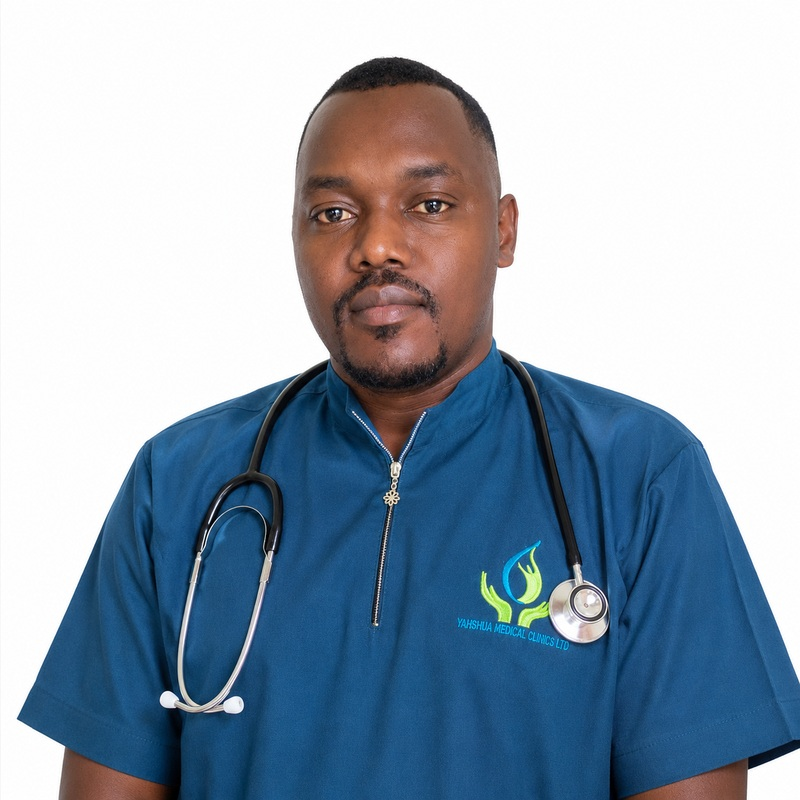
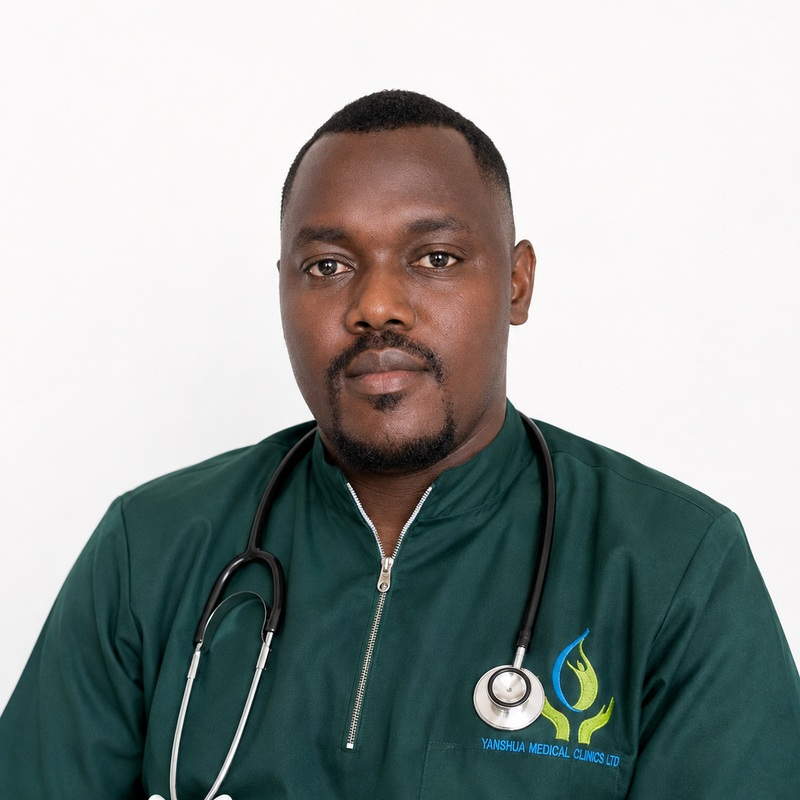
final assets uploads

diff --git a/assets/css/style.css b/assets/css/style.css
@@ -164,8 +164,8 @@ main,header,footer{position:relative;z-index:1}
 /* doctors */
 .doc-card{background:#fff;border:1px solid var(--line);border-radius:var(--radius);overflow:hidden;box-shadow:var(--shadow);transition:.28s;text-align:center}
 .doc-card:hover{transform:translateY(-6px);box-shadow:var(--shadow-lg)}
-.doc-photo{height:240px;background:linear-gradient(150deg,var(--blue-light),var(--green-light));display:grid;place-items:center;position:relative;border-bottom:1px solid var(--line)}
-.doc-photo img{width:100%;height:100%;object-fit:cover;position:absolute;inset:0}
+.doc-photo{height:280px;background:linear-gradient(150deg,var(--blue-light),var(--green-light));display:grid;place-items:center;position:relative;border-bottom:1px solid var(--line)}
+.doc-photo img{width:100%;height:100%;object-fit:cover;object-position:center top;position:absolute;inset:0}
 .doc-ph{color:var(--blue);font-size:.8rem;font-weight:700;letter-spacing:.6px;text-align:center;padding:0 14px;display:flex;flex-direction:column;align-items:center;gap:12px}
 .doc-ph .monogram{
   width:92px;height:92px;border-radius:50%;display:grid;place-items:center;
@@ -210,7 +210,7 @@ main,header,footer{position:relative;z-index:1}
 .upload-box .big{font-size:2.2rem;display:block;margin-bottom:8px}
 
 /* insurers */
-.ins-grid{display:grid;grid-template-columns:repeat(6,1fr);gap:18px}
+.ins-grid{display:grid;grid-template-columns:repeat(5,1fr);gap:18px}
 .ins{background:#fff;border:1px solid var(--line);border-radius:var(--radius-sm);height:108px;display:grid;place-items:center;padding:16px;box-shadow:0 4px 14px rgba(0,0,0,.04);transition:.25s}
 .ins:hover{transform:translateY(-5px);box-shadow:var(--shadow);border-color:#CFE6F7}
 .ins img{max-height:64px;width:auto;object-fit:contain}
@@ -292,7 +292,7 @@ footer a:hover{color:var(--green)}
 /* ---------- Responsive ---------- */
 @media(max-width:1024px){
   .g4,.stats .grid,.quickbar .grid{grid-template-columns:repeat(2,1fr)}
-  .ins-grid{grid-template-columns:repeat(4,1fr)}
+  .ins-grid{grid-template-columns:repeat(3,1fr)}
   .g3,.gal{grid-template-columns:repeat(2,1fr)}
   .hero-logo{display:none}
 }

diff --git a/tools/build.py b/tools/build.py
@@ -35,7 +35,7 @@ def head(title, desc, depth_css="assets"):
 <meta name="viewport" content="width=device-width, initial-scale=1">
 <title>{title}</title>
 <meta name="description" content="{desc}">
-<meta name="keywords" content="Yahshua Medical Clinics, clinic Nyagatare, hospital Rwanda, 24/7 clinic, dental OPG, X-ray Nyagatare, RSSB clinic, NCDs, Physiotherapy">
+<meta name="keywords" content="Yahshua Medical Clinics, clinic Nyagatare, hospital Rwanda, 24/7 clinic, dental OPG, X-ray Nyagatare, RSSB clinic, NCDs, Physiotherapy, Hospitalization Nyagatare">
 <meta name="author" content="Yahshua Medical Clinics Ltd">
 <meta property="og:title" content="{title}">
 <meta property="og:description" content="{desc}">
@@ -134,7 +134,7 @@ def footer():
           <li><a href="services.html">Gynecology &amp; Obstetrics OPD</a></li>
           <li><a href="services.html">Non-Communicable Diseases (NCDs)</a></li>
           <li><a href="services.html">Medical Imaging &amp; X-Ray</a></li>
-          <li><a href="services.html">Hospitalization</a></li>
+          <li><a href="services.html">Hospitalization (30+ Rooms)</a></li>
           <li><a href="services.html">Dental &amp; OPG Panoramic X-Ray</a></li>
           <li><a href="services.html">Physiotherapy</a></li>
         </ul>
@@ -191,13 +191,13 @@ def page_hero(title, sub, bg, crumb):
 # 8. Gynecology & Obstetrics OPD
 # 9. Non-Communicable Diseases (NCDs)
 # 10. Medical Imaging & X-Ray
-# 11. Hospitalization
+# 11. Hospitalization (30+ rooms: V-VIP, VIP, Single, Ward)
 # 12. Dental Services & OPG X-Ray
 # 13. Physiotherapy
 
 SERVICES = [
     ("&#129658;", "General Medicine",
-     "Complete adult consultation, diagnosis and treatment by our qualified General Practitioners, covering both acute illnesses and chronic health needs.",
+     "Complete adult consultation, diagnosis and treatment by our qualified General Practitioners, covering acute illnesses, routine check-ups and medical certificates.",
      ["Adult outpatient consultations", "Clinical diagnosis &amp; medical treatment", "General health check ups", "Medical certificates &amp; fitness exams"], False),
     ("&#127973;", "All OPD Services",
      "A structured outpatient department offering fast vital signs triage, routine check ups, consultations, injections, dressings and nursing care.",
@@ -227,8 +227,8 @@ SERVICES = [
      "Digital diagnostic general X-Ray imaging on site for fast, accurate skeletal, chest and trauma radiography with rapid reporting.",
      ["General diagnostic X-Ray imaging", "Chest radiography for lungs &amp; heart", "Bone, spine &amp; joint fracture imaging", "Fast digital radiography reporting"], False),
     ("&#128715;", "Hospitalization",
-     "Comfortable observation and inpatient admission beds with 24 hour nursing care and daily doctor review for patients who need to stay.",
-     ["24 hour continuous nursing care", "Comfortable observation &amp; admission beds", "Intravenous (IV) therapy &amp; monitoring", "Daily doctor ward rounds &amp; review"], True),
+     "Modern inpatient hospitalization capacity of over 30 rooms, including V-VIP suites, VIP rooms, private single rooms and comfortable general ward rooms with 24 hour continuous nursing care.",
+     ["Over 30 rooms capacity (V-VIP, VIP, Single &amp; Ward)", "24 hour continuous nursing care &amp; monitoring", "Private V-VIP and VIP inpatient suites", "Observation &amp; admission beds", "Intravenous (IV) therapy &amp; daily doctor review"], True),
     ("&#129463;", "Dental Services &amp; OPG X-Ray",
      "A complete dental clinic led by our Dental Surgeon, with digital OPG panoramic dental X-Ray on site, saving Eastern Province patients from travelling to Kigali.",
      ["OPG panoramic &amp; dental X-Ray", "Scaling &amp; professional cleaning", "Tooth coloured fillings &amp; restorations", "Root canal treatment", "Tooth extraction &amp; minor oral surgery", "Dentures, crowns &amp; bridges", "Braces / orthodontic advice", "Teeth whitening &amp; cosmetic dentistry"], False),
@@ -238,72 +238,54 @@ SERVICES = [
 ]
 
 INSURERS = [
-    ("RSSB", "rssb.png"), ("MMI", "mmi.png"), ("RADIANT", "radiant.png"),
-    ("SANLAM", "sanlam.png"), ("BRITAM", "britam.png"), ("UAP", "uap.png"),
-    ("OLD MUTUAL", "old.png"), ("EDEN CARE", "eden-care.png"),
-    ("MIS UR", "misur.png"), ("URWEGO FINANCE", "urwego.png"),
+    ("RSSB", "rssb.png"),
+    ("MMI", "mmi.png"),
+    ("RADIANT", "radiant.png"),
+    ("SANLAM", "sanlam.png"),
+    ("BRITAM", "britam.png"),
+    ("UAP", "uap.png"),
+    ("OLD MUTUAL", "old.png"),
+    ("EDEN CARE", "eden-care.png"),
+    ("MIS UR", "misur.png"),
+    ("URWEGO FINANCE", "urwego.png"),
     ("UBUZIMA BWIZA FOUNDATION", "ubf.png"),
+    ("EQUITY", "equity.png"),
+    ("ASA International", "asa.png"),
+    ("PSF Insurance", "psf.png"),
 ]
-INSURERS_TEXT = ["EQUITY", "ASA International", "PSF Insurance"]
+INSURERS_TEXT = []
 
-# Doctors & Staff data
-# Clinical Director and Dental Surgeon have full designated titles; other doctors: General Medicine (GP)
+# Medical Team: Real portraits, clean names, and clean single titles (no second subtitles, no availability tags)
 DOCTORS_LIST = [
     {
         "name": "Dr. KOLONELI Dieu Donné",
         "role": "Clinical Director",
-        "dept": "Clinical Leadership &amp; Medical Oversight",
-        "photo": None,
-        "initials": "KD",
-        "status": "On Duty 24/7"
+        "photo": "assets/img/doctor-koloneli.jpg"
     },
     {
         "name": "Dr. James NDAHIGWA",
-        "role": "General Medicine (GP)",
-        "dept": "General Outpatient Consultations &amp; Care",
-        "photo": "assets/img/doctor-ndahigwa.jpg",
-        "initials": "JN",
-        "status": "Available 24/7"
+        "role": "General Practitioner",
+        "photo": "assets/img/doctor-ndahigwa.jpg"
     },
     {
         "name": "Dr. GAPIRA SHIMA Patrick",
-        "role": "General Medicine (GP)",
-        "dept": "General Outpatient Consultations &amp; Minor Procedures",
-        "photo": "assets/img/doctor-shima.jpg",
-        "initials": "SG",
-        "status": "Available 24/7"
+        "role": "General Practitioner",
+        "photo": "assets/img/doctor-shima.jpg"
     },
     {
         "name": "Dr. NSENGIMANA Theodole",
         "role": "Dental Surgeon",
-        "dept": "Dental Clinic &amp; OPG Panoramic X-Ray Unit",
-        "photo": None,
-        "initials": "NT",
-        "status": "Dental Specialist"
+        "photo": "assets/img/doctor-nsengimana.jpg"
     },
     {
         "name": "KAMASERUKA Godfrey",
         "role": "Head of Nurses",
-        "dept": "Nursing Service, Inpatient Ward &amp; Triage",
-        "photo": "assets/img/nurse-godfrey.jpg",
-        "initials": "KG",
-        "status": "Nursing Lead"
+        "photo": "assets/img/nurse-godfrey.jpg"
     },
     {
         "name": "Teddy MURANGO",
         "role": "Head of Laboratory Technicians",
-        "dept": "Diagnostic Laboratory Unit",
-        "photo": "assets/img/lab-teddy.jpg",
-        "initials": "TM",
-        "status": "Laboratory Lead"
-    },
-    {
-        "name": "Clinical &amp; Paramedical Team",
-        "role": "Dental Therapist &middot; Support Staff",
-        "dept": "Physiotherapy, Dental &amp; Allied Health",
-        "photo": None,
-        "initials": "YM",
-        "status": "Growing Team"
+        "photo": "assets/img/lab-teddy.jpg"
     },
 ]
 
@@ -314,7 +296,7 @@ GALLERY = [
     ("parking.jpg", "Secure on site parking"),
     ("entrance-arch.jpg", "Main entrance arch"),
     ("front-signage.jpg", "Our clinic on EN 58 ST"),
-    ("hospitalization.jpg", "Hospitalization wing"),
+    ("hospitalization.jpg", "Hospitalization wing (30+ rooms: V-VIP, VIP, Single & Ward)"),
     ("street.jpg", "Street view &amp; reception block"),
     ("flow-chart.jpg", "Our patient flow chart: Triage first, vital signs &amp; priority care"),
 ]
@@ -324,8 +306,6 @@ def ins_grid():
     out = '<div class="ins-grid">'
     for name, f in INSURERS:
         out += f'<div class="ins" title="{name}"><img src="assets/insurers/{f}" alt="{name} logo" loading="lazy"></div>'
-    for name in INSURERS_TEXT:
-        out += f'<div class="ins"><span>{name}</span></div>'
     out += '<div class="ins"><span style="color:var(--green-dark)">&amp; more<br>to come</span></div>'
     out += "</div>"
     return out
@@ -336,15 +316,9 @@ def doc_cards():
     for doc in DOCTORS_LIST:
         name = doc["name"]
         role = doc["role"]
-        dept = doc["dept"]
         photo = doc["photo"]
-        inits = doc["initials"]
-        badge = doc["status"]
         
-        if photo:
-            photo_html = f'<img src="{photo}" alt="{name}" loading="lazy">'
-        else:
-            photo_html = f'<div class="doc-ph"><span class="monogram">{inits}</span><span class="ph-label">Photo coming soon</span></div>'
+        photo_html = f'<img src="{photo}" alt="{name}" loading="lazy">'
             
         out += f"""
       <article class="doc-card reveal">
@@ -352,10 +326,8 @@ def doc_cards():
           {photo_html}
         </div>
         <div class="doc-body">
-          <span class="doc-status-badge"><span class="pulse-dot"></span> {badge}</span>
           <h3>{name}</h3>
           <span class="doc-role">{role}</span>
-          <p class="doc-dept">{dept}</p>
           <div class="doc-actions">
             <a class="btn-sm btn-doc-call" href="tel:{TEL_MAIN}">&#9742; Call Clinic</a>
             <a class="btn-sm btn-doc-wa" href="https://wa.me/{WA_INTL}" target="_blank" rel="noopener">WhatsApp</a>
@@ -378,7 +350,7 @@ def build_index():
         </article>"""
 
     return head("Yahshua Medical Clinics Ltd | YAHWEH SAVES | 24/7 Clinic in Nyagatare, Rwanda",
-                "Yahshua Medical Clinics Ltd, Nyagatare. Affordable, patient centred healthcare open 24/7. General medicine (GP), OPD, pediatrics, minor surgery, laboratory, family planning, vaccination, gynecology, NCDs, medical imaging & X-ray, hospitalization, dental with OPG, and physiotherapy.") + header("index.html") + f"""
+                "Yahshua Medical Clinics Ltd, Nyagatare. Affordable, patient centred healthcare open 24/7. General medicine (GP), OPD, pediatrics, minor surgery, laboratory, family planning, vaccination, gynecology, NCDs, medical imaging & X-ray, hospitalization with 30+ rooms (V-VIP, VIP, Single, Ward), dental with OPG, and physiotherapy.") + header("index.html") + f"""
 <main>
 
 <section class="hero">
@@ -399,7 +371,7 @@ def build_index():
         <li>&#128300; Laboratory</li>
         <li>&#129658; NCDs Chronic Care</li>
         <li>&#127939; Physiotherapy</li>
-        <li>&#128715; Hospitalization</li>
+        <li>&#128715; 30+ Inpatient Rooms (V-VIP, VIP, Ward)</li>
         <li>&#127974; 14+ Insurance Partners</li>
       </ul>
       <div class="hero-actions">
@@ -447,7 +419,7 @@ def build_index():
   <div class="wrap">
     <div class="grid">
       <div><div class="num" data-count="24" data-suffix="/7">0</div><div class="lbl">Hours open, every day</div></div>
-      <div><div class="num" data-count="6" data-suffix="+">0</div><div class="lbl">Doctors on our team</div></div>
+      <div><div class="num" data-count="30" data-suffix="+">0</div><div class="lbl">Hospitalization rooms (V-VIP, VIP, Single, Ward)</div></div>
       <div><div class="num" data-count="13" data-suffix="">0</div><div class="lbl">Clinical departments</div></div>
       <div><div class="num" data-count="14" data-suffix="+">0</div><div class="lbl">Partners we work with</div></div>
     </div>
@@ -552,7 +524,7 @@ def build_about():
         <h2>YAHSHUA MEDICAL CLINICS LTD</h2>
         <p><strong>YAHSHUA MEDICAL CLINICS LTD</strong> has aims of providing the highest quality of care in preventive, diagnostic and curative medicine, thereby creating healthy and happy neighbourhoods.</p>
         <p>Our name carries our promise: <strong>&laquo; YAHWEH SAVES &raquo;</strong>. We serve every patient who walks in our clinic with dignity, competence and compassion, whatever the hour.</p>
-        <p>The clinic brings together general medicine, all OPD services, pediatrics, minor surgery, laboratory, family planning, vaccination, gynecology and obstetrics, NCDs chronic care, medical imaging and X-Ray, hospitalization, dental with OPG panoramic X-Ray, and physiotherapy, all in one clinic.</p>
+        <p>The clinic brings together general medicine, all OPD services, pediatrics, minor surgery, laboratory, family planning, vaccination, gynecology and obstetrics, NCDs chronic care, medical imaging and X-Ray, 30+ room hospitalization (V-VIP, VIP, Single, Ward), dental with OPG panoramic X-Ray, and physiotherapy, all in one clinic.</p>
         <a class="btn btn-green" href="services.html">Explore Our Services</a>
       </div>
       <div class="reveal"><img src="assets/img/inside-us.jpg" alt="Inside Yahshua Medical Clinics Ltd" loading="lazy"></div>
@@ -626,7 +598,7 @@ def build_services():
       </article>"""
 
     return head("Our Services | Yahshua Medical Clinics Ltd",
-                "Services at Yahshua Medical Clinics Ltd: General Medicine (GP), All OPD Services, Pediatrics, Minor Surgery with Circumcision, Laboratory, Family Planning, Vaccination, Gynecology & Obstetrics, NCDs, Medical Imaging & X-Ray, Hospitalization, Dental with OPG panoramic X-Ray, and Physiotherapy. Open 24/7.") \
+                "Services at Yahshua Medical Clinics Ltd: General Medicine (GP), All OPD Services, Pediatrics, Minor Surgery with Circumcision, Laboratory, Family Planning, Vaccination, Gynecology & Obstetrics, NCDs, Medical Imaging & X-Ray, Hospitalization (over 30 rooms: V-VIP, VIP, Single, Ward), Dental with OPG panoramic X-Ray, and Physiotherapy. Open 24/7.") \
         + header("services.html") \
         + page_hero("Our Services", "A wide range of health care services under one roof, available 24 hours a day, every day of the year.", "waiting-area-1.jpg", "Services") + f"""
 <main>
@@ -686,7 +658,10 @@ def build_services():
         <img src="assets/img/dental-5.jpg" alt="Root Canal Treatment at Yahshua Medical Clinics" loading="lazy">
         <figcaption><strong>Root Canal Treatment</strong><span>Careful cleaning and sealing of the root canal to save a badly damaged tooth.</span></figcaption>
       </figure>
-      <div class="upload-box reveal"><span class="big">&#129463;</span><strong>More cases</strong>Photos added regularly</div>
+      <figure data-lb class="reveal">
+        <img src="assets/img/hospitalization.jpg" alt="Hospitalization at Yahshua Medical Clinics" loading="lazy">
+        <figcaption><strong>Inpatient Hospitalization</strong><span>30+ comfortable rooms including V-VIP, VIP, Single &amp; Ward rooms.</span></figcaption>
+      </figure>
     </div>
   </div>
 </section>
@@ -694,8 +669,8 @@ def build_services():
 <section class="sec">
   <div class="wrap">
     <div class="grid g2">
-      <article class="card reveal"><div class="ico-lg">&#9200;</div><h3>Operating Hours</h3><p><strong>24/7</strong>: 24 hours a day, 7 days a week, 365 days a year. Emergencies, triage, laboratory, pharmacy and nursing service are always staffed.</p></article>
-      <article class="card alt reveal"><div class="ico-lg">&#128179;</div><h3>Payment &amp; Partners</h3><p>We work with RSSB, MMI, RADIANT, SANLAM, BRITAM, UAP/Old Mutual, Eden Care, Equity, ASA International, UBF, PSF Insurance, MIS UR and more. <strong>All payment modes accepted.</strong> <a href="insurance.html">See partners we work with &rarr;</a></p></article>
+      <article class="card reveal"><div class="ico-lg">&#9200;</div><h3>Operating Hours</h3><p><strong>24/7</strong>: 24 hours a day, 7 days a week, 365 days a year. Emergencies, triage, laboratory, pharmacy, hospitalization and nursing service are always staffed.</p></article>
+      <article class="card alt reveal"><div class="ico-lg">&#128179;</div><h3>Payment &amp; Partners</h3><p>We work with RSSB, MMI, RADIANT, SANLAM, BRITAM, UAP, Old Mutual, Eden Care, Equity, ASA International, PSF Insurance, MIS UR, Urwego and Ubuzima Bwiza Foundation. <strong>All payment modes accepted.</strong> <a href="insurance.html">See partners we work with &rarr;</a></p></article>
     </div>
   </div>
 </section>
@@ -707,16 +682,16 @@ def build_services():
 
 def build_doctors():
     return head("Our Medical Team | Yahshua Medical Clinics Ltd",
-                "Meet the medical team of Yahshua Medical Clinics Ltd: Clinical Director, Dental Surgeon, General Medicine (GP) doctors, Head of Nurses, Head of Laboratory Technicians and clinical staff serving Nyagatare 24/7.") \
+                "Meet the medical team of Yahshua Medical Clinics Ltd: Clinical Director, Dental Surgeon, General Practitioners, Head of Nurses, and Head of Laboratory Technicians serving Nyagatare 24/7.") \
         + header("doctors.html") \
-        + page_hero("Our Medical Team", "Clinical Director, Dental Surgeon, General Practitioners (GP), nursing leadership, laboratory technicians and paramedicals.", "hospitalization.jpg", "Our Medical Team") + f"""
+        + page_hero("Our Medical Team", "Clinical Director, Dental Surgeon, General Practitioners, nursing leadership and laboratory technicians dedicated to your health.", "hospitalization.jpg", "Our Medical Team") + f"""
 <main>
 <section class="sec">
   <div class="wrap">
     <div class="sec-head center">
       <span class="eyebrow">Meet the team</span>
       <h2>Doctors &amp; Clinical Leadership</h2>
-      <p>Our multidisciplinary medical team is on duty around the clock. To book an appointment or speak with our team, call our central line on <a href="tel:{TEL_MAIN}">{TEL_MAIN}</a> or reception on <a href="tel:{TEL_RECEP}">{TEL_RECEP}</a>.</p>
+      <p>Our medical team is on duty around the clock. To book an appointment or speak with our team, call our central line on <a href="tel:{TEL_MAIN}">{TEL_MAIN}</a> or reception on <a href="tel:{TEL_RECEP}">{TEL_RECEP}</a>.</p>
       <div class="rule"></div>
     </div>
     <div class="grid g3">{doc_cards()}</div>
@@ -726,9 +701,9 @@ def build_doctors():
 <section class="sec sec-soft">
   <div class="wrap">
     <div class="grid g3">
-      <article class="card reveal"><div class="ico-lg">&#129658;</div><h3>General Medicine (GP)</h3><p>Experienced General Practitioners covering adult consultations, OPD triage, pediatrics, NCD chronic care, gynecology consultations and minor surgery, on duty day and night.</p></article>
+      <article class="card reveal"><div class="ico-lg">&#129658;</div><h3>General Practitioners</h3><p>Experienced medical doctors covering adult consultations, OPD triage, pediatrics, NCD chronic care, gynecology consultations and minor surgery, on duty day and night.</p></article>
       <article class="card alt reveal"><div class="ico-lg">&#129463;</div><h3>Dental Surgeon</h3><p>A qualified Dental Surgeon offering comprehensive oral healthcare, surgical extractions, restorations and digital OPG panoramic dental X-Ray on site.</p></article>
-      <article class="card reveal"><div class="ico-lg">&#129657;</div><h3>Nursing &amp; Laboratory Leads</h3><p>Head of Nurses and Head of Laboratory Technicians leading our attentive 24/7 inpatient care, sterile procedures and accurate diagnostic testing.</p></article>
+      <article class="card reveal"><div class="ico-lg">&#129657;</div><h3>Nursing &amp; Laboratory Leads</h3><p>Head of Nurses and Head of Laboratory Technicians leading our attentive 24/7 inpatient hospitalization, sterile procedures and accurate diagnostic testing.</p></article>
     </div>
   </div>
 </section>
@@ -740,9 +715,9 @@ def build_doctors():
 
 def build_insurance():
     return head("Partners We Work With | Yahshua Medical Clinics Ltd",
-                "Yahshua Medical Clinics Ltd works with RSSB, MMI, RADIANT, SANLAM, BRITAM, UAP/Old Mutual, Eden Care, Equity, ASA International, UBF, PSF Insurance, MIS UR and more. All payment modes accepted.") \
+                "Yahshua Medical Clinics Ltd works with RSSB, MMI, RADIANT, SANLAM, BRITAM, UAP, Old Mutual, Eden Care, Equity, ASA International, PSF Insurance, MIS UR, Urwego and Ubuzima Bwiza Foundation. All payment modes accepted.") \
         + header("insurance.html") \
-        + page_hero("Partners We Work With", "We work with many insurance providers and accept all payment modes, so care stays affordable.", "front-signage.jpg", "Partners") + f"""
+        + page_hero("Partners We Work With", "We work with 14+ insurance providers and partners and accept all payment modes, so care stays affordable.", "front-signage.jpg", "Partners") + f"""
 <main>
 <section class="sec">
   <div class="wrap">
@@ -839,16 +814,6 @@ def build_gallery():
       <div class="rule"></div>
     </div>
     <div class="gal">{figs}</div>
-
-    <div class="sec-head center" style="margin-top:60px;margin-bottom:24px">
-      <h3>More photos coming soon</h3>
-      <p>These spaces are reserved for new photos of our departments, equipment and team.</p>
-    </div>
-    <div class="grid g3">
-      <div class="upload-box reveal"><span class="big">&#128247;</span><strong>New photo</strong>Coming soon</div>
-      <div class="upload-box reveal"><span class="big">&#128247;</span><strong>New photo</strong>Coming soon</div>
-      <div class="upload-box reveal"><span class="big">&#128247;</span><strong>New photo</strong>Coming soon</div>
-    </div>
   </div>
 </section>
 
@@ -902,14 +867,14 @@ def build_contact():
               <option>Gynecology &amp; Obstetrics</option>
               <option>Non-Communicable Diseases (NCDs)</option>
               <option>Medical Imaging &amp; X-Ray</option>
-              <option>Hospitalization</option>
+              <option>Hospitalization (30+ Rooms: V-VIP, VIP, Single, Ward)</option>
               <option>Dental / OPG Panoramic X-Ray</option>
               <option>Physiotherapy</option>
               <option>Other / Not sure</option>
             </select>
           </div>
           <div class="field"><label for="date">Preferred date</label><input type="date" id="date" name="date"></div>
-          <div class="field"><label for="insurance">Insurance (optional)</label><input id="insurance" name="insurance" placeholder="e.g. RSSB, MMI, Radiant, Sanlam..."></div>
+          <div class="field"><label for="insurance">Insurance (optional)</label><input id="insurance" name="insurance" placeholder="e.g. RSSB, MMI, Radiant, Sanlam, Equity, ASA..."></div>
           <div class="field"><label for="message">Message</label><textarea id="message" name="message" rows="4" placeholder="Briefly describe your concern"></textarea></div>
           <button class="btn btn-green" type="submit" style="width:100%;justify-content:center">Send via WhatsApp</button>
           <div id="formOk" style="display:none;margin-top:12px;color:var(--green-dark);font-weight:700">&#10004; WhatsApp opened. Press send to reach our team.</div>
